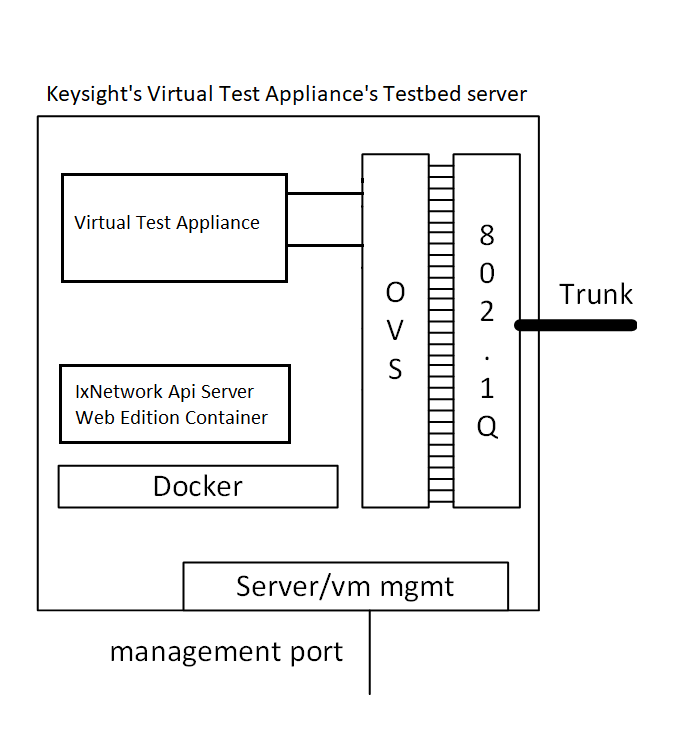
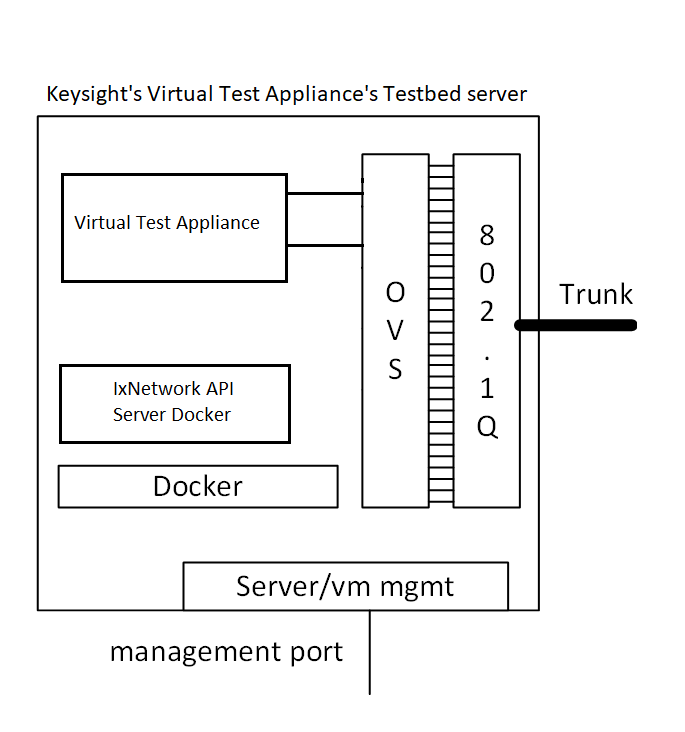
Documentation refactoring

Changed region(s): [[0.092, 0.5109, 0.3679, 0.6011]]

diff --git a/ansible/doc/README.testbed.keysight.vtm.md b/ansible/doc/README.testbed.keysight.vtm.md
@@ -1,6 +1,6 @@
 # Testbed Setup with Keysight Virtual Appliances and IxNetwork
 
-This document describes the steps to setup a testbed with Virtual Test Appliance (in short VTM) and IxNetwork API Server Web edition container.
+This document describes the steps to setup a testbed with Virtual Test Appliance (in short VTM) and IxNetwork API Server container.
 
 The test components like veos, ceos and ptf are not used here.
 
@@ -13,7 +13,7 @@ The schematic diagram below provides an overview of the setup.
 ### Network connections
 - The testbed server has 2 network ports:
   - Trunk port to root fanout switch.
-  - Server management port to manage the server, VTMs and IxNetwork Api Server Web Edition container running on the server.
+  - Server management port to manage the server, VTMs and IxNetwork Api Server container running on the server.
 - The management bridge here referred to as `br1` is connected to the server management port.
 
 ### Virtual Test Appliance module - VTM
@@ -25,7 +25,7 @@ The schematic diagram below provides an overview of the setup.
 
 - Install Ubuntu 18.04 amd64 on the server.
 - Setup internal management network bridge `br1`. A sample `netplan` configuration is as below.
-    ```json
+    ```
     network:
       ethernets:
         ens192:
@@ -57,16 +57,16 @@ The schematic diagram below provides an overview of the setup.
     ```shell
     $ docker load -i docker-sonic-mgmt.gz
     ```
-- Download VTM and IxNetwork Web Edition container images from the following links -
+- Download VTM and IxNetwork API Server container images from the following links -
     - [Virtual Test Appliance (VTM)](https://support.ixiacom.com/support-overview/product-support/downloads-updates/ixvm). The *qcow2* image for *KVM* needs to be downloaded.
-    - [IxNetwork API Server Web Edition (Docker deployment)](https://ks-aws-prd-itshared-opix.s3-us-west-1.amazonaws.com/IxSoftwareUpgrades/IxNetwork/9.0_Update3/Ixia_IxNetworkWeb_Docker_9.00.100.213.tar.bz2).
+    - [IxNetwork API Server](https://ks-aws-prd-itshared-opix.s3-us-west-1.amazonaws.com/IxSoftwareUpgrades/IxNetwork/9.0_Update3/Ixia_IxNetworkWeb_Docker_9.00.100.213.tar.bz2).
 
     Downloaded files would be like below respectively-
     - `Ixia_Virtual_Test_Appliance_9.10_KVM.qcow2.tar.bz2`
     - `Ixia_IxNetworkWeb_Docker_9.10.2007.146.tar.bz2`
 
 - Place the downloaded files in a folder say `~/keysight_images`. This location needs to be mounted on `/images` inside the *sonic-mgmt* container.
-    > **Note** If you load the *IxNetwork API Server Web Edition* docker image in your docker registry then you need not to place `Ixia_IxNetworkWeb_Docker_9.10.2007.146.tar.bz2` inside the `~/keysight_images` folder. In that case you need to consider the `docker_registry_host` in `ansible/vars/docker_registry.yml` file. If local file is used it will not pull from the docker registry.
+    > **Note** If you load the *IxNetwork API Server* docker image in your docker registry then you need not to place `Ixia_IxNetworkWeb_Docker_9.10.2007.146.tar.bz2` inside the `~/keysight_images` folder. In that case you need to consider the `docker_registry_host` in `ansible/vars/docker_registry.yml` file. If local file is used it will not pull from the docker registry.
 
 - Run the `setup-container.sh` in the root directory of the sonic-mgmt repository:
     ```shell
@@ -75,15 +75,14 @@ The schematic diagram below provides an overview of the setup.
     ```
     > e.g. `./setup-container.sh -n sonicmgmt -d /data -v ~/keysight_images`
 
-From now on, all steps are running inside the *sonic-mgmt* docker **unless otherwise specified**.
+    From now on, all steps are running inside the *sonic-mgmt* docker **unless otherwise specified**.
 
-You can enter your sonic-mgmt container with the following command:
+    You can enter your sonic-mgmt container with the following command:
 
-```shell
-$ docker exec -u <alias> -it <container name> bash
-```
+    ```shell
+    $ docker exec -u <alias> -it <container name> bash
+    ```
 
-## Additional steps
 - Setup public key to login into the linux host from sonic-mgmt docker. You may use `ssk-keygen` and `ssh-copy-id` for the same.
 - Create dummy `password.txt` under `/data/sonic-mgmt/ansible`
 
@@ -93,25 +92,9 @@ $ docker exec -u <alias> -it <container name> bash
     ```
     foo ALL=(ALL) NOPASSWD:ALL
     ```
-- Modify veos/*your configuration file* to use the user name, e.g., `foo` to login linux host (this can be your username on the host).
 
-    ```shell
-    lgh@gulv-vm2:/data/sonic-mgmt/ansible$ git diff
-    diff --git a/ansible/veos_vtb b/ansible/veos_vtb
-    index 3e7b3c4e..edabfc40 100644
-    --- a/ansible/veos_vtb
-    +++ b/ansible/veos_vtb
-    @@ -73,7 +73,7 @@ vm_host_1:
-    hosts:
-        STR-ACS-VSERV-01:
-        ansible_host: 10.250.0.101
-    -      ansible_user: use_own_value
-    +      ansible_user: foo
-
-    vms_1:
-    hosts:
-    ```
-- Modify `ansible/group_vars/vm_host/creds.yml` accordingly.
+## Modify configuration files
+- Modify credentials in `ansible/group_vars/vm_host/creds.yml` accordingly.
 - In `ansible/group_vars/vm_host/main.yml` add/modify the below lines
     ```
     vtm_image_name: Ixia_Virtual_Test_Appliance_9.10_KVM.qcow2
@@ -119,32 +102,36 @@ $ docker exec -u <alias> -it <container name> bash
     ixnetwork_api_server_docker_image_name: ixnetworkweb_9.10.2007.146_image
     ```
 
-## Modify the configuration file veos/other as per need.
-Example below. (or you may refer to `keysight_testbed_config`)
-```json
-server_1:
-    vars:
-        host_var_file: host_vars/STR-ACS-VSERV-01.yml
-    children:
-        vm_host_1:
-        vms_1:
+- **Modify configuration file for the testbed server** -
 
-vm_host_1:
-    hosts:
-        STR-ACS-VSERV-01:
-            ansible_host: 10.250.0.101
-            ansible_user: foo
+    Modify veos/*your configuration file* to use the username in `ansible_user`, e.g., `foo` to login to linux host (this can be your username on the host). Edit IP addresses and `host_var_file` as per need.
 
-vms_1:
-    hosts:
-        VM0120:
-            ansible_host: 10.250.0.102
+    Example snippet below - (Refer to the `sonic-mgmt/ansible/veos` or `sonic-mgmt/ansible/veos_vtb` files.)
+    ```
+    server_1:
+        vars:
+            host_var_file: host_vars/STR-ACS-VSERV-01.yml
+        children:
+            vm_host_1:
+            vms_1:
 
-```
-> Note: VM entries should have a prefix 'VM' in their name.
+    # Entry for IxNetwork API Server
+    vm_host_1:
+        hosts:
+            STR-ACS-VSERV-01:
+                ansible_host: 10.250.0.101
+                ansible_user: foo
+
+    # Entry for Virtual Test Appliance - VTM
+    vms_1:
+        hosts:
+            VM0120:
+                ansible_host: 10.250.0.102
+    ```
+    > Note: VTM entries should have a prefix 'VM' in their name.
 
 ## Setup Virtual Test Appliances (VTM) in the server
-To start vtm vms –
+To start VTM –
 ```shell
 $ ./testbed-cli.sh -m keysight_testbed_config -n 1 -k keysight_vtm start-vms server_1 password.txt
 ```
@@ -153,7 +140,7 @@ Here `-k` option specifies to deploy `keysight_vtm`.
 Please note: Here "password.txt" is the Ansible Vault password file name/path. Ansible allows user to use Ansible Vault to encrypt password files. By default, this shell script requires a password file. If you are not using Ansible Vault, just create a file with a dummy password and pass the filename to the command line. The file name and location is created and maintained by user.
 
 
-## Setup IxNetwork API Server Web Edition
+## Setup IxNetwork API Server
 - Edit the testbed-csv file to add entry like below-
     ```csv
     # conf-name,group-name,topo,ptf_image_name,ptf,ptf_ip,ptf_ipv6,server,vm_base,dut,comment
@@ -164,23 +151,23 @@ Please note: Here "password.txt" is the Ansible Vault password file name/path. A
 
 - For topology configuration refer to the `topo_t0_keysight.yml` file. The `vtm_port_index` field is used to specify respective VTM test interface.
 
-- To start IxNetwork API Server run
+- To start IxNetwork API Server
     ```shell
     $ ./testbed-cli.sh -t vtestbed.csv -m keysight_testbed_config add-topo example-ixia password.txt
     ```
 
-## Stop IxNetwork API Server Web Edition docker container
+## Stop IxNetwork API Server
 ```shell
 $ ./testbed-cli.sh -t vtestbed.csv -m keysight_testbed_config remove-topo example-ixia password.txt
 ```
 
-## Stop VTMs
+## Stop Virtual Test Appliances (VTM)
 ```shell
 $ ./testbed-cli.sh -m keysight_testbed_config -n 1 -k keysight_vtm stop-vms server_1 password.txt
 ```
 
 ## TL;DR
-- Download [Virtual Test Appliance (VTM) qcow2 image](https://support.ixiacom.com/support-overview/product-support/downloads-updates/ixvm) and [IxNetwork API Server Web Edition (Docker deployment)](https://ks-aws-prd-itshared-opix.s3-us-west-1.amazonaws.com/IxSoftwareUpgrades/IxNetwork/9.0_Update3/Ixia_IxNetworkWeb_Docker_9.00.100.213.tar.bz2). Place the files in `~/keysight_images`.
+- Download [Virtual Test Appliance (VTM) qcow2 image](https://support.ixiacom.com/support-overview/product-support/downloads-updates/ixvm) and [IxNetwork API Server](https://ks-aws-prd-itshared-opix.s3-us-west-1.amazonaws.com/IxSoftwareUpgrades/IxNetwork/9.0_Update3/Ixia_IxNetworkWeb_Docker_9.00.100.213.tar.bz2). Place the files in `~/keysight_images`.
 - Create management bridge.
 - Clone https://github.com/Azure/sonic-mgmt
 - Download and run [sonic-mgmt]((https://sonic-jenkins.westus2.cloudapp.azure.com/job/bldenv/job/docker-sonic-mgmt/lastSuccessfulBuild/artifact/sonic-buildimage/target/docker-sonic-mgmt.gz)) docker using `./setup-container.sh -n sonicmgmt -d /data -v ~/keysight_images`
@@ -197,6 +184,6 @@ $ ./testbed-cli.sh -m keysight_testbed_config -n 1 -k keysight_vtm stop-vms serv
     example-ixia,vms6-1,t0_keysight,docker-keysight-api-server,example-ixia-ptf-1,10.39.32.194/22,,server_1,VM0120,[vlab-01],Test with Keysight API Server
     ```
 - Start VTM - `./testbed-cli.sh -m keysight_testbed_config -n 1 -k keysight_vtm start-vms server_1 password.txt`
-- Start IxNetwork API Server container - `./testbed-cli.sh -t vtestbed.csv -m keysight_testbed_config add-topo example-ixia password.txt`
+- Start IxNetwork API Server - `./testbed-cli.sh -t vtestbed.csv -m keysight_testbed_config add-topo example-ixia password.txt`
 - To stop VTM - `./testbed-cli.sh -m keysight_testbed_config -n 1 -k keysight_vtm stop-vms server_1 password.txt`
-- To Stop IxNetwork API Server container - `./testbed-cli.sh -m keysight_testbed_config -n 1 -k keysight_vtm stop-vms server_1 password.txt`
+- To Stop IxNetwork API Server - `./testbed-cli.sh -m keysight_testbed_config -n 1 -k keysight_vtm stop-vms server_1 password.txt`

diff --git a/ansible/README.testbed.md b/ansible/README.testbed.md
@@ -3,7 +3,6 @@
 - [Overview](doc/README.testbed.Overview.md)
 - [Setup](doc/README.testbed.Setup.md)
   - [Virtual Switch Testbed Setup](doc/README.testbed.VsSetup.md)
-  - [Keysight Virtual Test Appliance based Testbed Setup](doc/README.testbed.keysight.vtm.md)
 - [Topology](doc/README.testbed.Topology.md)
 - [Configuration](doc/README.testbed.Config.md)
 - [Minigraph](doc/README.testbed.Minigraph.md)
